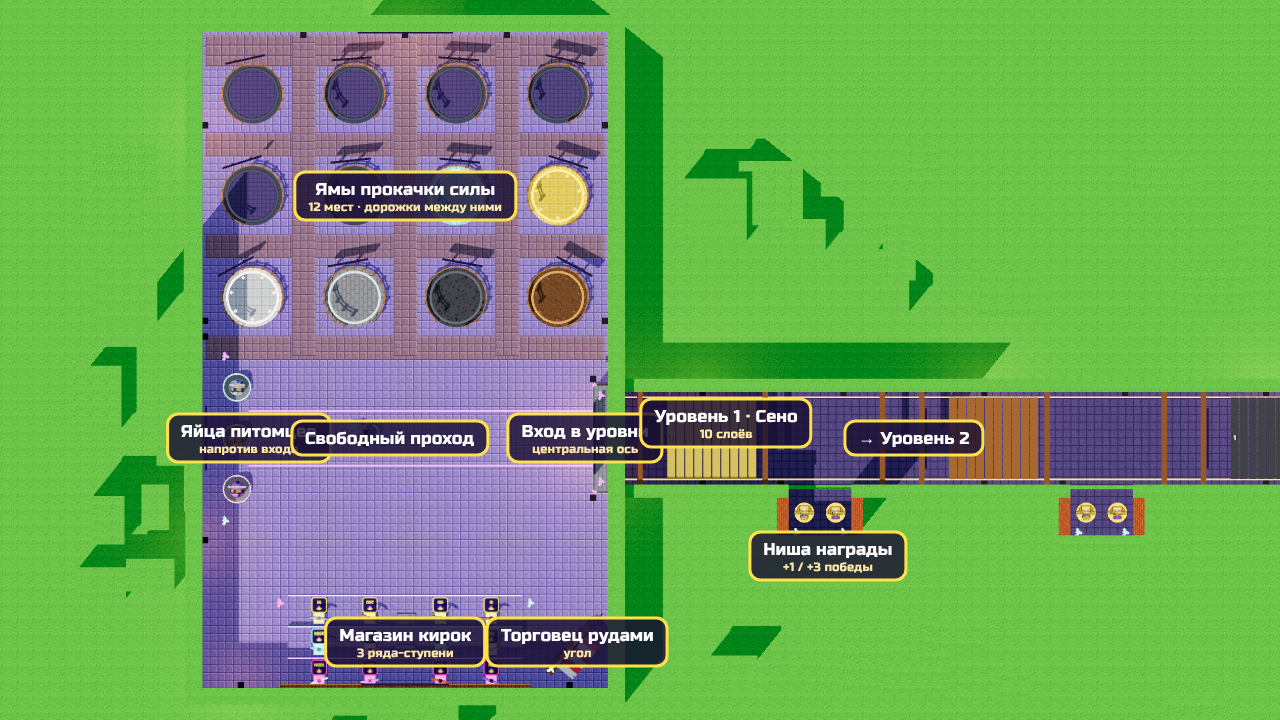
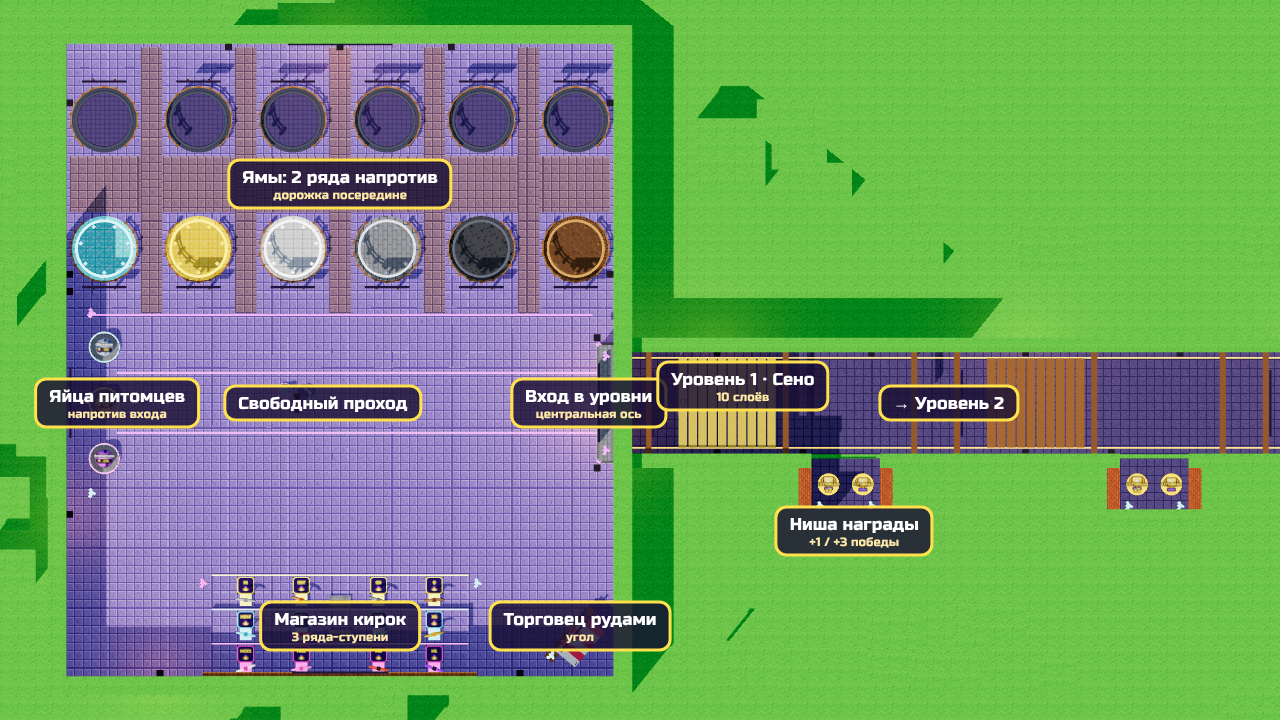
Wall Breaker: arrange pits in two facing rows with a central walkway
Claude-Session: https://claude.ai/code/session_01Cq7LsBAaJFPkbeiSJhJFDh

diff --git a/games/wall-breaker/tools/preview.html b/games/wall-breaker/tools/preview.html
@@ -237,6 +237,8 @@ function sign({ w, h, title, sub, icon, bg = '#4b2a9e', border = '#ffe14d', titl
   const m = new THREE.Mesh(new THREE.PlaneGeometry(w, h), new THREE.MeshStandardMaterial({ map: tex, roughness: .7, emissive: 0xffffff, emissiveMap: tex, emissiveIntensity: .35 }));
   const back = new THREE.Mesh(new THREE.BoxGeometry(w + .4, h + .4, .5), std(0x2a1a4a));
   back.position.z = -.3; m.add(back); back.castShadow = true;
+  // двусторонняя табличка: надпись видна и сзади
+  const m2 = new THREE.Mesh(m.geometry, m.material); m2.rotation.y = Math.PI; m2.position.z = -.6; m.add(m2);
   return m;
 }
 function sprite(draw, w, h, sw, sh) {
@@ -323,7 +325,7 @@ function pet() {
 
 // ---------- сцена ----------
 let scene, camera, ortho, renderer, sun, portalMat;
-const HW = 64, XL = -104, HD = 52, WALLH = 24, LVL_LEN = 72, LVL0 = -56;
+const HW = 64, XL = -84, HD = 64, WALLH = 24, LVL_LEN = 72, LVL0 = -HD - 4;
 const layers = []; // [level][layer] -> mesh
 const levelSigns = [];
 let player, petObj, debris = [];
@@ -334,7 +336,8 @@ function buildHub() {
   const shape = new THREE.Shape(); shape.moveTo(XL, -HD); shape.lineTo(HW, -HD); shape.lineTo(HW, HD); shape.lineTo(XL, HD); shape.closePath();
   // Зона ям: 2 колонки × 4 ряда = 8 мест. Ямы открываются по числу перерождений (PitConfig).
   // Зона ям: 3 колонки × 4 ряда = 12 мест, между ними дорожки шириной ~10 стадов.
-  const PIT_COLS = [-36, -62, -88], PIT_ROWS = [-39, -13, 13, 39];
+  // 2 ряда ям вдоль зала, лицом друг к другу; между рядами широкая дорожка (x = -51)
+  const PIT_COLS = [-36, -66], PIT_ROWS = [-55, -33, -11, 11, 33, 55], WALK_X = -51;
   // [название, подпись, текстура стенок, цвет кристаллов/обода, цвет таблички, светится?, открыта?]
   const PIT_DEF = [
     ['Землянка', 'открыта · +1 сила', TX.dirt, 0xb07a45, '#6b4426', false, true],
@@ -345,7 +348,7 @@ function buildHub() {
     ['Алмазная', '🔒 40 перерождений', TX.levels[8].map, 0x5ee7ff, '#137f99', true]];
   const PITS = [];
   PIT_COLS.forEach((x, c) => PIT_ROWS.forEach((z, r) => {
-    const d = PIT_DEF[c * 4 + r];
+    const d = PIT_DEF[c * 6 + r];
     PITS.push(d ? { x, z, name: d[0], sub: d[1], tex: d[2], col: d[3], bg: d[4], shiny: d[5], open: !!d[6] } : { x, z, name: 'Новая яма', sub: 'свободное место', tex: TX.darkFloor, col: 0x3a3f55, bg: '#2f3448', empty: true });
   }));
   const PR = 6.5;
@@ -381,7 +384,7 @@ function buildHub() {
 
   // фонари на стенах
   for (const z of [-26, 0, 26]) lantern(XL + .9, 11, z, z === 0);
-  for (const x of [-30, -80]) { lantern(x, 11, HD - .9, x === -80); lantern(x, 11, -HD + .9); }
+  for (const x of [-30, -70]) { lantern(x, 11, HD - .9, x === -80); lantern(x, 11, -HD + .9); }
   for (const z of [-42, 42]) lantern(HW - .9, 11, z, z === 42);
   for (const x of [-26, 26]) lantern(x, 11, HD - .9, x === 26);
 
@@ -441,8 +444,8 @@ function buildHub() {
   box(.5, .1, 2 * HD - 10, glow(0xc66bff, 1.2), -20.5, .06, 0, scene, false);
   // дорожки между ямами
   const pathMat = (w, d) => texMat(TX.floor, w / 8, d / 8, { color: 0xffe2a8 });
-  for (const x of [-23, -49, -75, -98]) box(x === -98 ? 8 : 6, .12, 2 * HD - 2, pathMat(6, 2 * HD), x === -98 ? -99 : x, .06, 0, scene, false);
-  for (const z of [-26, 0, 26]) box(-20 - XL - 2, .12, 6, pathMat(-20 - XL, 6), (XL - 20) / 2, .07, z, scene, false);
+  box(13, .12, 2 * HD - 2, pathMat(13, 2 * HD), WALK_X, .06, 0, scene, false); // главная дорожка между рядами
+  for (const z of [-44, -22, 0, 22, 44]) box(-20 - XL - 2, .12, 5, pathMat(-20 - XL, 5), (XL - 20) / 2, .07, z, scene, false); // поперечные проходы
   PITS.forEach((p, i) => {
     const g = new THREE.Group(); g.position.set(p.x, 0, p.z); scene.add(g);
     const wall = new THREE.Mesh(new THREE.CylinderGeometry(PR, PR, 6, 40, 1, true), texMat(p.empty ? TX.stoneBrick : p.tex, 10, 1.5, { side: THREE.BackSide })); wall.position.y = -3; wall.receiveShadow = true; g.add(wall);
@@ -454,7 +457,7 @@ function buildHub() {
     ring.rotation.x = -Math.PI / 2; ring.position.y = .09; ring.receiveShadow = true; g.add(ring);
     const rim = new THREE.Mesh(new THREE.TorusGeometry(PR, .35, 8, 48), p.empty ? std(0x555a70) : glow(col, p.shiny ? 1.8 : .7)); rim.rotation.x = Math.PI / 2; rim.position.y = .1; g.add(rim);
     // направление к центру зала: табличка смотрит туда, вход в забор — тоже
-    const dx = -p.x, dz = -p.z * .5, phi = Math.atan2(dz, dx);
+    const phi = p.x > WALK_X ? Math.PI : 0; // смотрим на дорожку между рядами
     // забор из столбиков и перекладин, проход со стороны центра
     const N = 18, FR = PR + 1.3, posts = [];
     for (let k = 0; k < N; k++) { const a = k / N * Math.PI * 2; let da = Math.abs(((a - phi) + Math.PI * 3) % (Math.PI * 2) - Math.PI); posts.push(da > .5 ? a : null); }
@@ -602,8 +605,8 @@ function setScene(t, still) {
 
   // --- позиция игрока ---
   let px = 0, pz = 30, walk = 0, swing = null, faceY = Math.PI;
-  if (t < 6) { px = -2; pz = 26; walk = 0; }
-  else if (t < 10.4) { const k = (t - 6) / 4.4; pz = lerp(26, -50, k); px = 0; walk = t * 9; }
+  if (t < 6) { px = -2; pz = 30; walk = 0; }
+  else if (t < 10.4) { const k = (t - 6) / 4.4; pz = lerp(30, -HD + 2, k); px = 0; walk = t * 9; }
   else {
     // уровень 1
     for (let k = 0; k < 10; k++) if (t >= breakTimes[k]) layerDone = k + 1;
@@ -646,8 +649,8 @@ function setScene(t, still) {
   // --- камера ---
   let cp, ct;
   if (t < 6.2) {
-    cp = catmull([[0, [-20, 175, 92]], [3, [36, 104, 96]], [6.2, [-22, 30, 48]]], t);
-    ct = catmull([[0, [-20, 0, -10]], [3, [-12, 0, -6]], [6.2, [0, 4, -8]]], t);
+    cp = catmull([[0, [-10, 150, 104]], [3, [40, 116, 110]], [6.2, [-22, 30, 54]]], t);
+    ct = catmull([[0, [-10, 0, -12]], [3, [-12, 0, -6]], [6.2, [0, 4, -8]]], t);
   } else if (t < 10.4) {
     const k = clamp((t - 6.2) / 1.2); const base = new THREE.Vector3(9, 11, pz + 20), tgt = new THREE.Vector3(0, 6, pz - 14);
     cp = new THREE.Vector3(-22, 30, 48).lerp(base, ease(k)); ct = new THREE.Vector3(0, 4, -8).lerp(tgt, ease(k));
@@ -712,12 +715,12 @@ function setSun(focus, span = 70) {
 
 // ---------- кадры-скриншоты ----------
 const STILLS = {
-  hub: { t: 2, cam: [-20, 175, 92], tgt: [-20, 0, -10] },
-  hub_front: { t: 2, cam: [0, 26, 48], tgt: [0, 5, -30] },
+  hub: { t: 2, cam: [-10, 150, 104], tgt: [-10, 0, -8] },
+  hub_front: { t: 2, cam: [0, 26, 60], tgt: [0, 5, -40] },
   shop: { t: 2, cam: [14, 20, 34], tgt: [54, 4, -2] },
-  pits: { t: 2, cam: [14, 56, 38], tgt: [-62, -2, -6] },
-  eggs: { t: 2, cam: [8, 15, 10], tgt: [0, 5, 40] },
-  trader: { t: 2, cam: [26, 14, -20], tgt: [54, 5, -42] },
+  pits: { t: 2, cam: [8, 58, 62], tgt: [-52, -2, -8] },
+  eggs: { t: 2, cam: [12, 15, 36], tgt: [0, 5, 56] },
+  trader: { t: 2, cam: [26, 14, -32], tgt: [54, 5, -54] },
   level: { t: 14.2 },
   reward: { t: 19.6 },
   levels: { t: 25 },
@@ -731,8 +734,8 @@ window.renderAt = (t, still = null, hudT = null) => {
     setSun(new THREE.Vector3(0, 0, -20), 90);
     renderer.render(scene, ortho); applyHud(s);
     // подписи зон
-    const L = [[0, 26, -46, 'Вход в уровни', 'центральная ось'], [0, 6, 40, 'Яйца питомцев', 'напротив входа'], [52, 12, 0, 'Магазин кирок', '3 ряда-ступени'],
-      [-62, 2, 0, 'Ямы прокачки силы', '12 мест · дорожки между ними'], [52, 10, -44, 'Торговец рудами', 'угол'], [0, 1, 4, 'Свободный проход', ''], [-4, 4, -82, 'Уровень 1 · Сено', '10 слоёв'], [30, 2, -108, 'Ниша награды', '+1 / +3 победы'], [0, 4, -130, '→ Уровень 2', '']];
+    const L = [[0, 26, -58, 'Вход в уровни', 'центральная ось'], [0, 6, 52, 'Яйца питомцев', 'напротив входа'], [52, 12, 0, 'Магазин кирок', '3 ряда-ступени'],
+      [-51, 2, 0, 'Ямы: 2 ряда напротив', 'дорожка посередине'], [52, 10, -56, 'Торговец рудами', 'угол'], [0, 1, 4, 'Свободный проход', ''], [-4, 4, -94, 'Уровень 1 · Сено', '10 слоёв'], [30, 2, -120, 'Ниша награды', '+1 / +3 победы'], [0, 4, -142, '→ Уровень 2', '']];
     $('labels').innerHTML = L.map(([x, y, z, a, b]) => { const v = new THREE.Vector3(x, y, z).project(ortho); return `<div class="lbl" style="left:${(v.x + 1) / 2 * W}px;top:${(1 - v.y) / 2 * H}px">${a}${b ? `<small>${b}</small>` : ''}</div>`; }).join('');
     return;
   }
@@ -761,8 +764,8 @@ async function init() {
   scene.background = canvasTex(4, 256, (g) => { const gr = g.createLinearGradient(0, 0, 0, 256); gr.addColorStop(0, '#5aa8ff'); gr.addColorStop(.6, '#a9d8ff'); gr.addColorStop(1, '#e8f6ff'); g.fillStyle = gr; g.fillRect(0, 0, 4, 256); }, false);
   scene.fog = new THREE.Fog(0xcfeaff, 300, 1100);
   camera = new THREE.PerspectiveCamera(55, W / H, .5, 2000);
-  const oh = 92; ortho = new THREE.OrthographicCamera(-oh * W / H, oh * W / H, oh, -oh, 1, 600);
-  ortho.position.set(-20, 300, -60); ortho.up.set(-1, 0, 0); ortho.lookAt(-20, 0, -60);
+  const oh = 84; ortho = new THREE.OrthographicCamera(-oh * W / H, oh * W / H, oh, -oh, 1, 600);
+  ortho.position.set(-10, 300, -70); ortho.up.set(-1, 0, 0); ortho.lookAt(-10, 0, -70);
   scene.add(new THREE.HemisphereLight(0xdff0ff, 0x6a4a9a, 1.25));
   sun = new THREE.DirectionalLight(0xfff1d6, 2.1); sun.castShadow = true; sun.shadow.mapSize.set(2048, 2048); sun.shadow.bias = -.0005; sun.shadow.camera.near = 1; sun.shadow.camera.far = 400; scene.add(sun, sun.target);
   buildTextures(); buildHub(); buildLevels();

diff --git a/games/wall-breaker/README.md b/games/wall-breaker/README.md
@@ -46,7 +46,7 @@ tools/                ← исходники, из которых сгенери
 
 - вход в уровни стоит на центральной оси. Это арка **без портала**: через неё сразу виден коридор и первая стена. Яйца напротив входа;
 - магазин кирок справа сделан **ступенями в 3 ряда**: ряд 1 на полу, ряды 2 и 3 каждый на ступеньку выше, посередине лестница. Перед каждой киркой площадка с ценой в победах: встал на неё — купил;
-- ямы прокачки стоят в расширенной зоне слева: **12 мест** (сетка 3×4). Между ними дорожки шириной около 10 стадов, вход в каждый забор и таблички развёрнуты к центру зала. Каждая яма окрашена в свой материал: стенки, бортик и кристаллы. Открыта Землянка; Угольная, Каменная, Железная, Золотая и Алмазная закрыты до нужного числа перерождений; 6 мест свободны под новые ямы;
+- ямы прокачки стоят слева **двумя рядами по 6, лицом друг к другу**. Между рядами широкая дорожка, между ямами поперечные проходы, вход в забор и таблички (двусторонние) смотрят на дорожку. Каждая яма окрашена в свой материал: стенки, бортик и кристаллы. Открыта Землянка; Угольная, Каменная, Железная, Золотая и Алмазная закрыты до нужного числа перерождений; 6 мест свободны под новые ямы;
 - торговец в углу, центральный проход свободный;
 - 10 уровней идут по прямой, в каждом по 10 слоёв;
 - между уровнями ниша с наградой (+1 / +3 победы) и кнопкой «В лобби».
